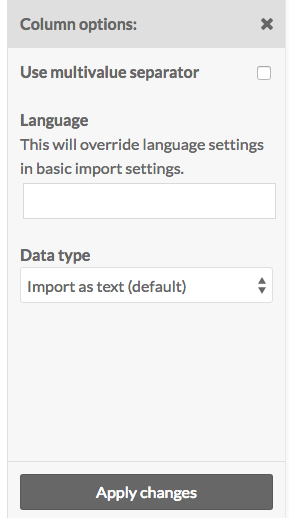
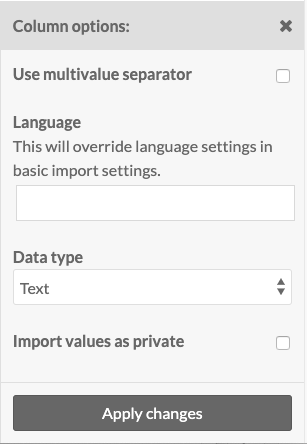
item column options

diff --git a/docs/modules/csvimport.md b/docs/modules/csvimport.md
@@ -134,10 +134,11 @@ This will open a drawer on the right side of the browser window with the followi
 - **Use multivalve separator:** check this box to use the multivalue separator for data in this column. You set the multivalue separator in the initial import page, but you can change it in the Basic Settings tab.  
 - **Language:** is a field where you can set the language for this column using the [IETF Language tag](https://en.wikipedia.org/wiki/IETF_language_tag) for the language in which the text is written. This will override what you have entered in basic settings. 
 - **Data type:** is a dropdown with three options, which correspond to the [values](../content/items/#values) one can use when adding properties to an item:
-	- Import as text (default);
-	- Import as URL reference;
-	- Import as Omeka S resource ID. Note that you must have the correct ID for the resource. A resources' ID is the number sequence at the end of the url when on the view or edit page, so for `/admin/item/11576` the ID is 11576
+	- Import as text (default).
+	- Import as URL reference. You can set the label for the URI by including the desired text after a space, for example:  `http://example.com This Is The Label`
+	- Import as Omeka S resource ID. Note that you must have the correct ID for the resource. A resources' ID is the number sequence at the end of the url when on the view or edit page, so for `/admin/item/11576` the ID is 11576.
 	- If you have certain modules installed, such as Numeric Data Types, there may be additional data type options supplied by those modules.
+- **Import values as private**: check this box to set all property values *in this column* private.
 
 ![drawer with options as described above](../modules/modulesfiles/csvimport_ItemColOpt.png)
 
